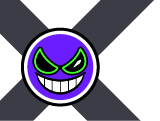
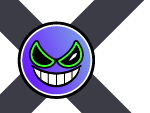
colors

diff --git a/components/ui/ParallaxScrollView.tsx b/components/ui/ParallaxScrollView.tsx
@@ -1,9 +1,11 @@
 import type { PropsWithChildren, ReactElement } from "react";
 import Animated, { interpolate, useAnimatedRef, useAnimatedStyle, useScrollViewOffset } from "react-native-reanimated";
+import { LinearGradient } from "expo-linear-gradient";
 
 import ThemedView from "@/components/base/ThemedView";
 import ThemedText from "@/components/base/ThemedText";
 import { useBottomTabOverflow } from "@/components/ui/TabBarBackground";
+import { Colors } from "@/style/Colors";
 import styles from "@/style/base/ParallaxScrollViewStyle";
 
 const HEADER_HEIGHT = 150;
@@ -49,14 +51,19 @@ export default function ParallaxScrollView({ children, headerImage, headerBackgr
               flexDirection: "row",
               alignItems: "center",
               backgroundColor: headerBackgroundColor,
+              marginTop: 32,
             }}
           >
-            <ThemedView style={[styles.headerImageCont, { backgroundColor: headerBackgroundColor }]}>
-              {headerImage}
-            </ThemedView>
+            <LinearGradient
+              colors={[Colors.darkGrey, Colors.mediumGrey]}
+              start={{ x: 0, y: 0 }}
+              end={{ x: 1, y: 0 }}
+              style={{ width: "100%", height: "100%", position: "absolute", top: 0, left: 0, zIndex: 1 }}
+            ></LinearGradient>
+            <ThemedView style={[styles.headerImageCont, { zIndex: 2 }]}>{headerImage}</ThemedView>
             <ThemedText
               type="title"
-              style={styles.headerTitle}
+              style={[styles.headerTitle, { zIndex: 3 }]}
             >
               {headerTitle}
             </ThemedText>

diff --git a/style/Colors.ts b/style/Colors.ts
@@ -7,7 +7,7 @@ export const lightGrey = "#818181";
 export const green = "#3dff27";
 export const lightGreen = "#11FFBD";
 export const purple = "#6a1dff";
-export const lightPurple = "#4776E6";
+export const lightPurple = "#7B93E9";
 export const yellow = "#f9f639";
 export const orange = "#f1c430";
 

diff --git a/style/base/ParallaxScrollViewStyle.ts b/style/base/ParallaxScrollViewStyle.ts
@@ -7,7 +7,7 @@ const styles = StyleSheet.create({
     backgroundColor: Colors.background,
   },
   header: {
-    height: 150,
+    height: 175,
     alignItems: "flex-start",
     justifyContent: "center",
     overflow: "hidden",
